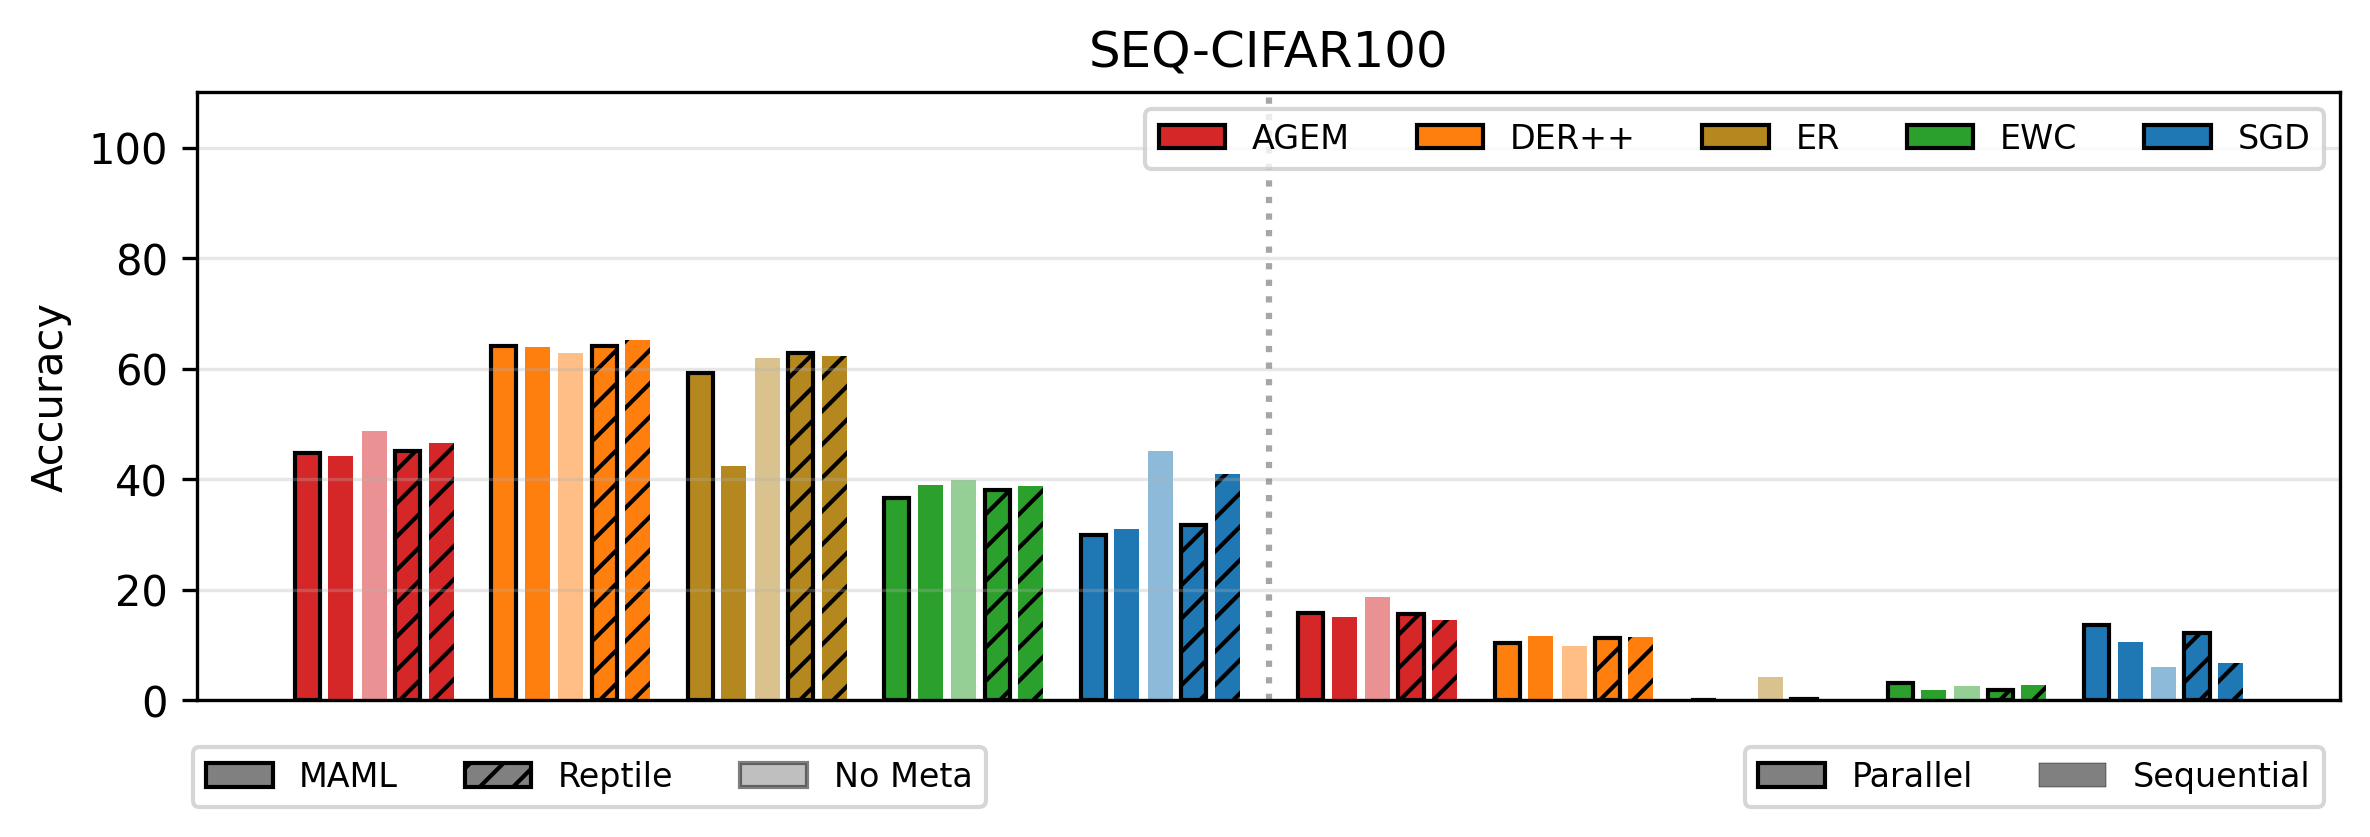
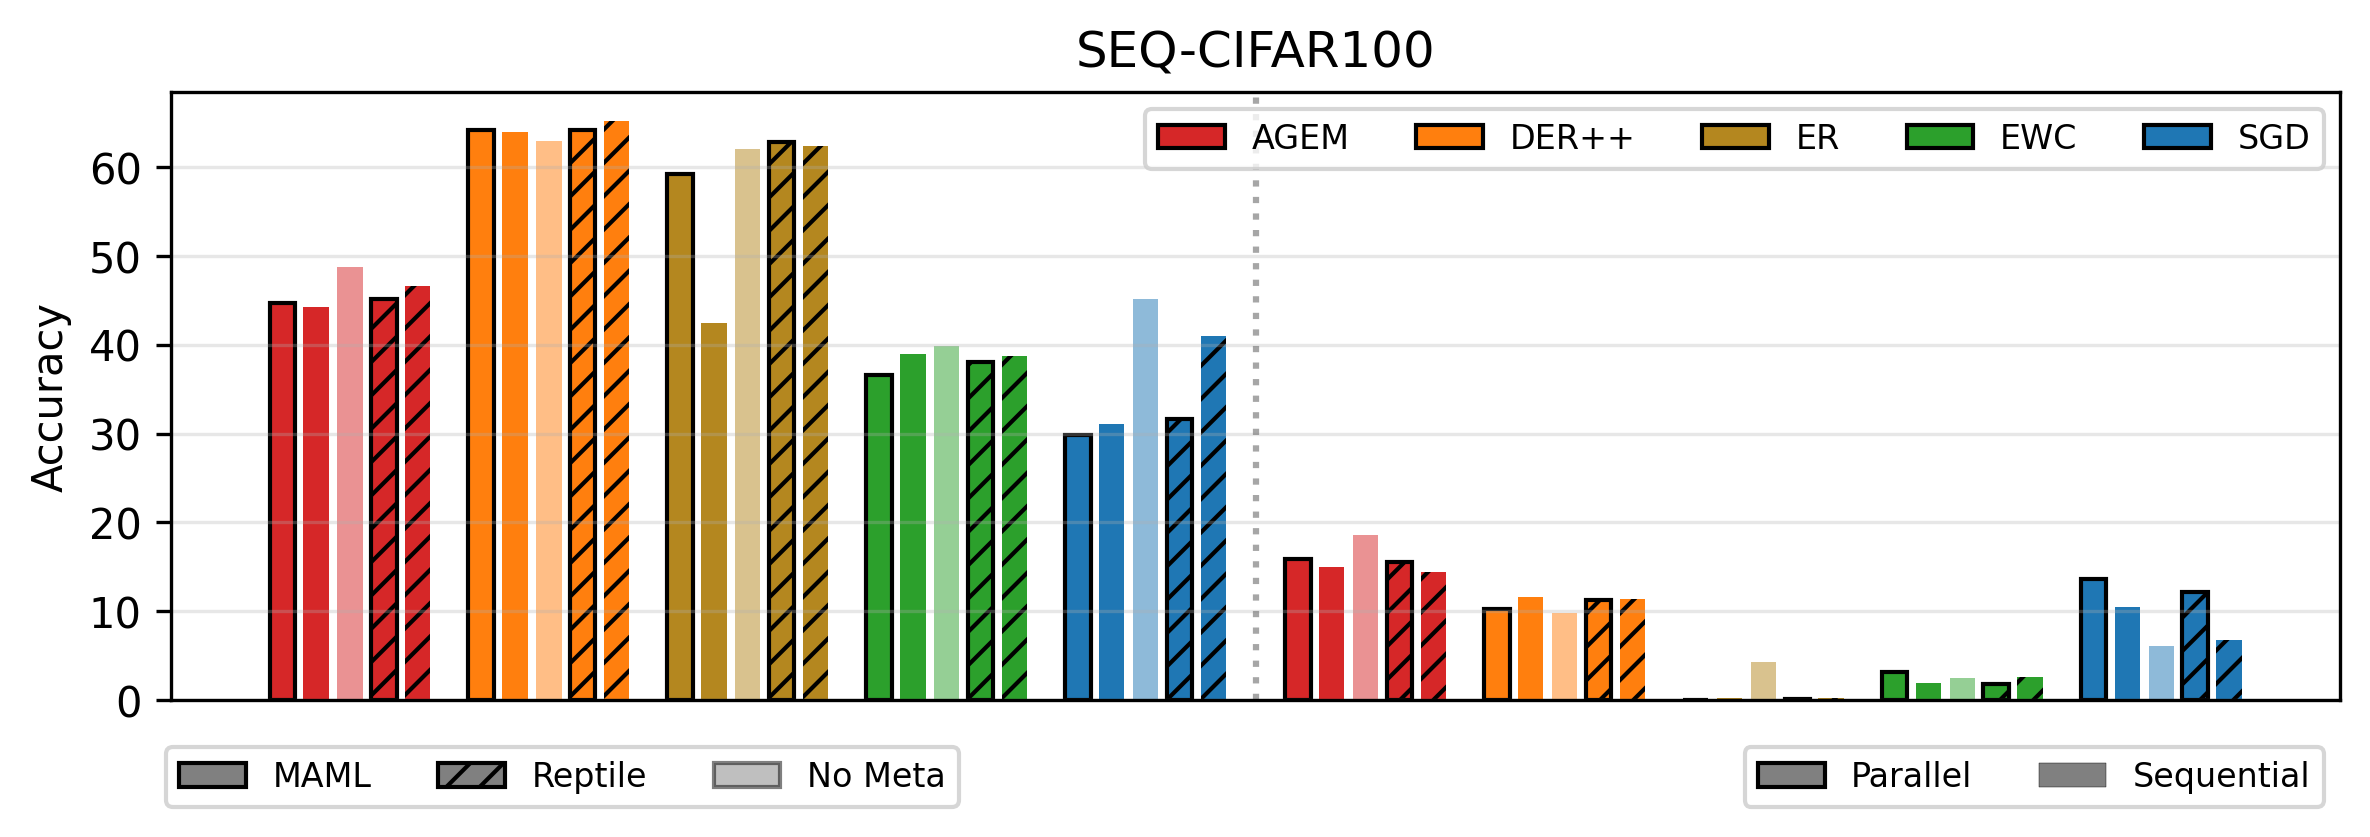
meta comparisons

diff --git a/results_for_paper.py b/results_for_paper.py
@@ -1392,7 +1392,7 @@ def plot_meta_improvement(
 
         if (forward_only or backward_only) and dataset == 'seq-mnist':
             ax.set_ylabel(metric.capitalize() if col_idx == 0 else '')
-            
+
             legend_1 = ax.legend(loc="center right", ncols=1, fontsize=8, bbox_to_anchor=(-0.2, 0.9))
             ax.add_artist(legend_1)
             ax.legend(bars_non_meta, method_labels, loc='upper right', ncols=1,
@@ -1652,9 +1652,9 @@ def compare_meta_methods(
 
     # Filter to only meta methods
     csv_files = [f for f in csv_files if (
-        f.name.startswith('evaluation_results_meta-') or 
-        '_meta_' in f.name
-        and 'parallel' in f.name  # only parallel for now
+        (f.name.startswith('evaluation_results_meta-') or 
+        '_meta_' in f.name)
+        # and ('agem' in f.name or 'derpp' in f.name or 'sgd' in f.name)
     )]
     
     # Filter by include_20task flag
@@ -1706,7 +1706,7 @@ def compare_meta_methods(
     # Figure 1: SAUCE plots
     nrows = 2
     ncols = 1
-    fig1, axes1 = plt.subplots(nrows, ncols, figsize=(6, 5), squeeze=False)
+    fig1, axes1 = plt.subplots(nrows, ncols, figsize=(6, 3), squeeze=False)
     
     dataset_name = get_dataset_name(dataset, include_20task)
     row_titles = [f'{dataset_name} (Backward)', f'{dataset_name} (Forward)']
@@ -1898,7 +1898,7 @@ def compare_meta_methods(
         ax.set_title(dataset.upper())
         ax.set_ylabel(metric.capitalize())
         ax.grid(True, axis='y', alpha=0.3)
-        ax.set_ylim(0, 110 if metric == 'accuracy' else 1.1)
+        # ax.set_ylim(0, 110 if metric == 'accuracy' else 1.1)
 
         method_legend = ax.legend(method_handles, [LABEL_MAP.get(get_method_label(m.split('-')[1]), m) for m in labels if 'maml' in m and 'parallel' in m],
                                   loc='upper right', ncol=5, fontsize=8)
